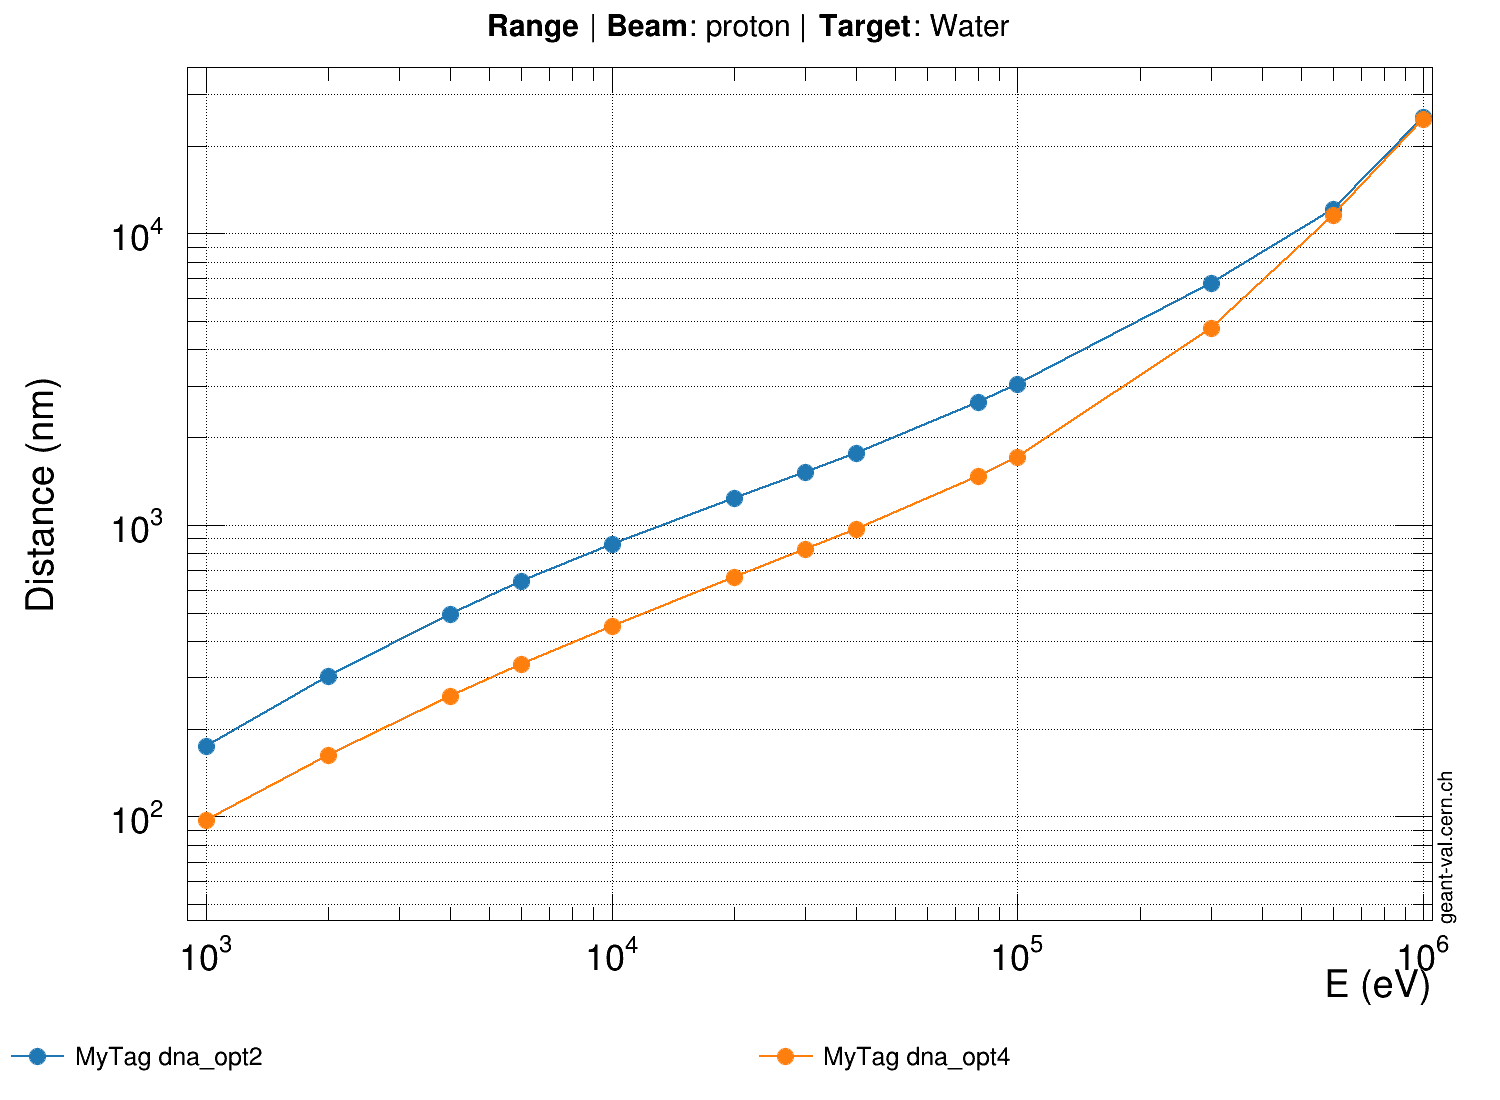
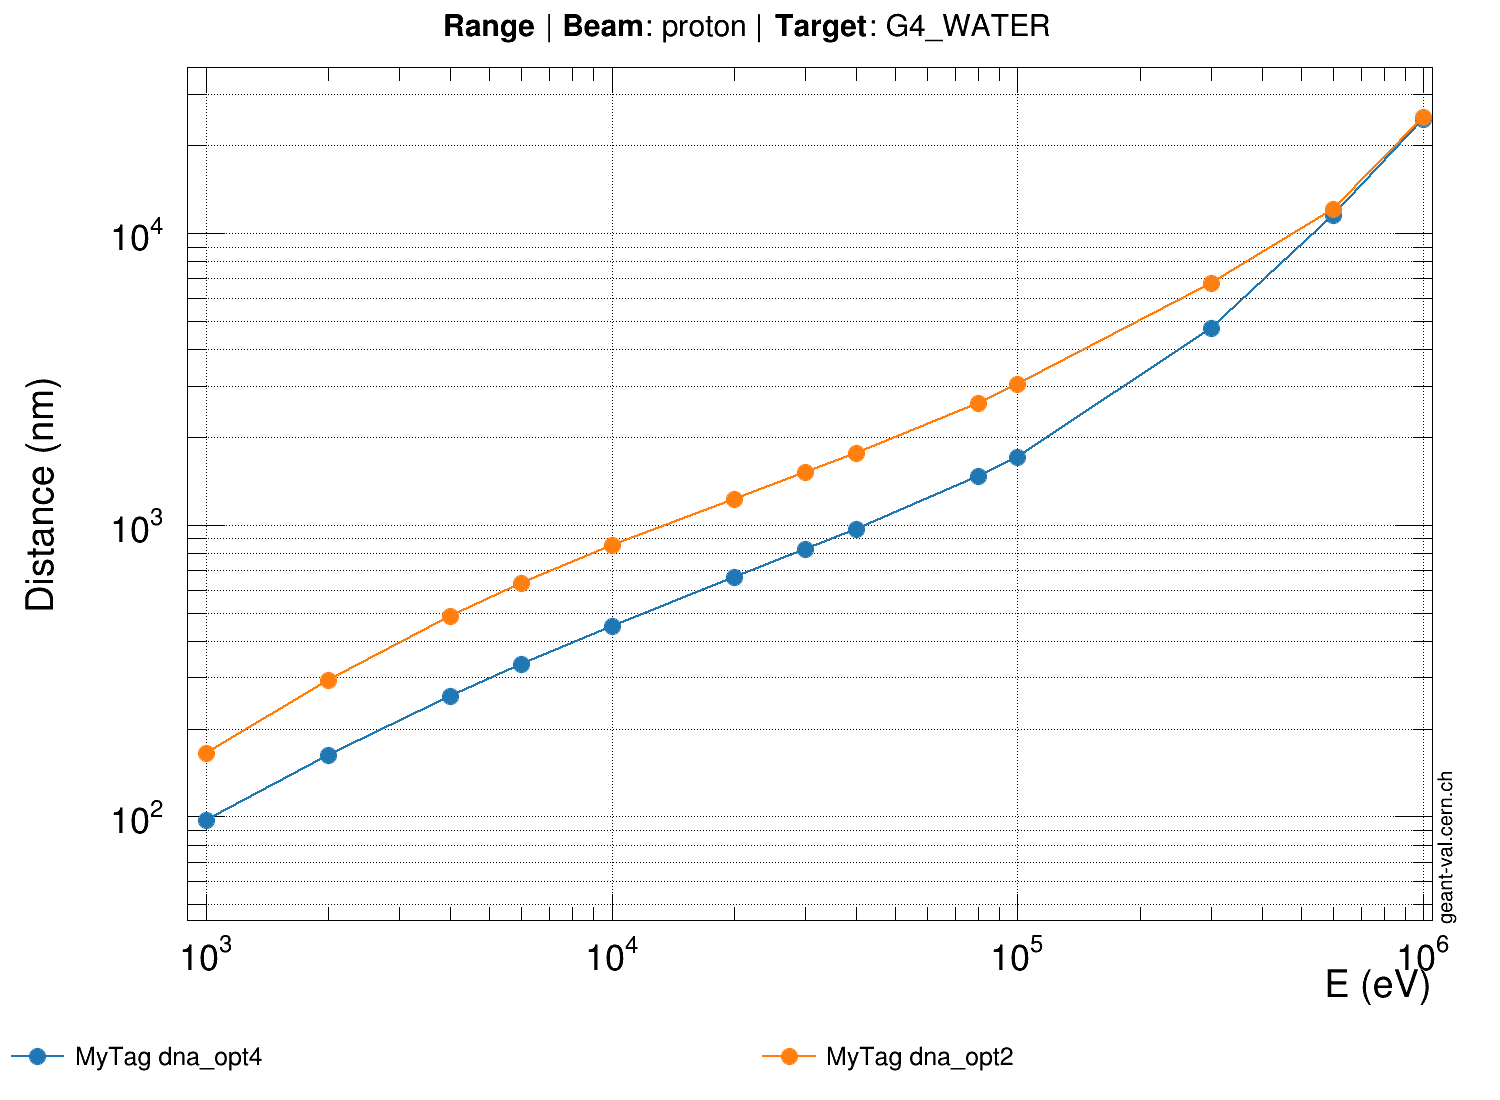
range/proton.conf/MyTag : mar. mai 23 20:35:18 CEST 2023

diff --git a/assets/OUTPUTJSON/geant4/MyTag/x86_64/range/proton.conf.c b/assets/OUTPUTJSON/geant4/MyTag/x86_64/range/proton.conf.c
@@ -1358,3 +1358,139 @@ double gvp_id-1_yerrors[13] = {
   0,
   0
 };
+// Tool:               GEANT4
+// Version:            MyTag
+// Model:              dna_opt4
+// Observable:         range
+// Target:             G4_WATER
+// Beam Particle:      proton
+// Secondary Particle: None
+
+double gvp_id-1_x[13] = {
+  1000,
+  2000,
+  4000,
+  6000,
+  10000,
+  20000,
+  30000,
+  40000,
+  80000,
+  100000,
+  300000,
+  600000,
+  1e+06
+};
+double gvp_id-1_y[13] = {
+  97.5713,
+  162.432,
+  258.069,
+  332.877,
+  451.097,
+  660.954,
+  823.597,
+  965.654,
+  1468.11,
+  1715,
+  4749,
+  11560.4,
+  24690.5
+};
+double gvp_id-1_xerrors[13] = {
+  0,
+  0,
+  0,
+  0,
+  0,
+  0,
+  0,
+  0,
+  0,
+  0,
+  0,
+  0,
+  0
+};
+double gvp_id-1_yerrors[13] = {
+  0,
+  0,
+  0,
+  0,
+  0,
+  0,
+  0,
+  0,
+  0,
+  0,
+  0,
+  0,
+  0
+};
+// Tool:               GEANT4
+// Version:            MyTag
+// Model:              dna_opt2
+// Observable:         range
+// Target:             G4_WATER
+// Beam Particle:      proton
+// Secondary Particle: None
+
+double gvp_id-1_x[13] = {
+  1000,
+  2000,
+  4000,
+  6000,
+  10000,
+  20000,
+  30000,
+  40000,
+  80000,
+  100000,
+  300000,
+  600000,
+  1e+06
+};
+double gvp_id-1_y[13] = {
+  165.176,
+  294.03,
+  485.463,
+  631.001,
+  851.27,
+  1230.46,
+  1515.49,
+  1761.89,
+  2624.16,
+  3040.24,
+  6724.43,
+  12142.2,
+  25124.3
+};
+double gvp_id-1_xerrors[13] = {
+  0,
+  0,
+  0,
+  0,
+  0,
+  0,
+  0,
+  0,
+  0,
+  0,
+  0,
+  0,
+  0
+};
+double gvp_id-1_yerrors[13] = {
+  0,
+  0,
+  0,
+  0,
+  0,
+  0,
+  0,
+  0,
+  0,
+  0,
+  0,
+  0,
+  0
+};
